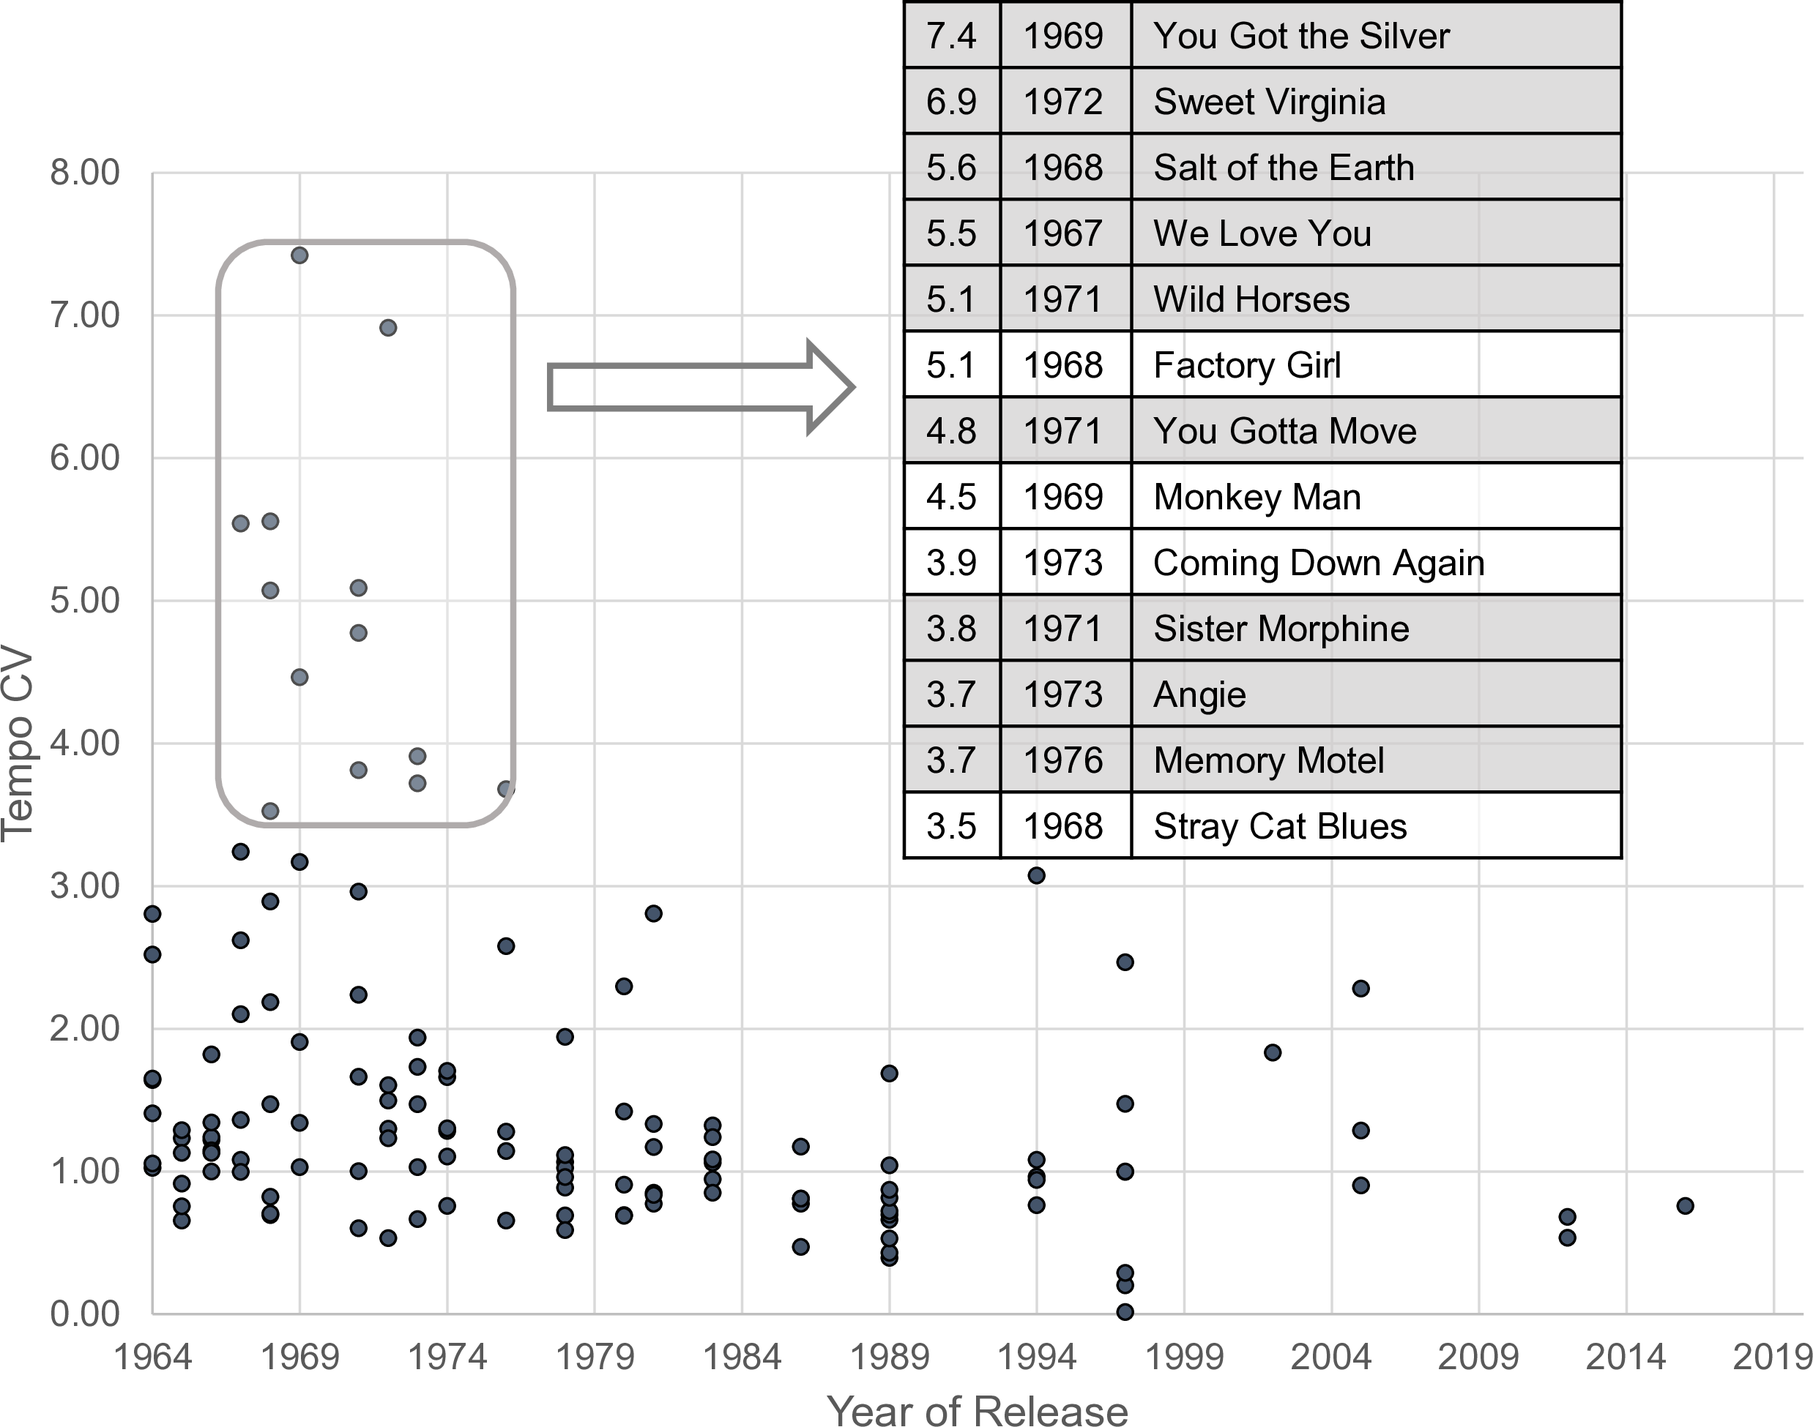
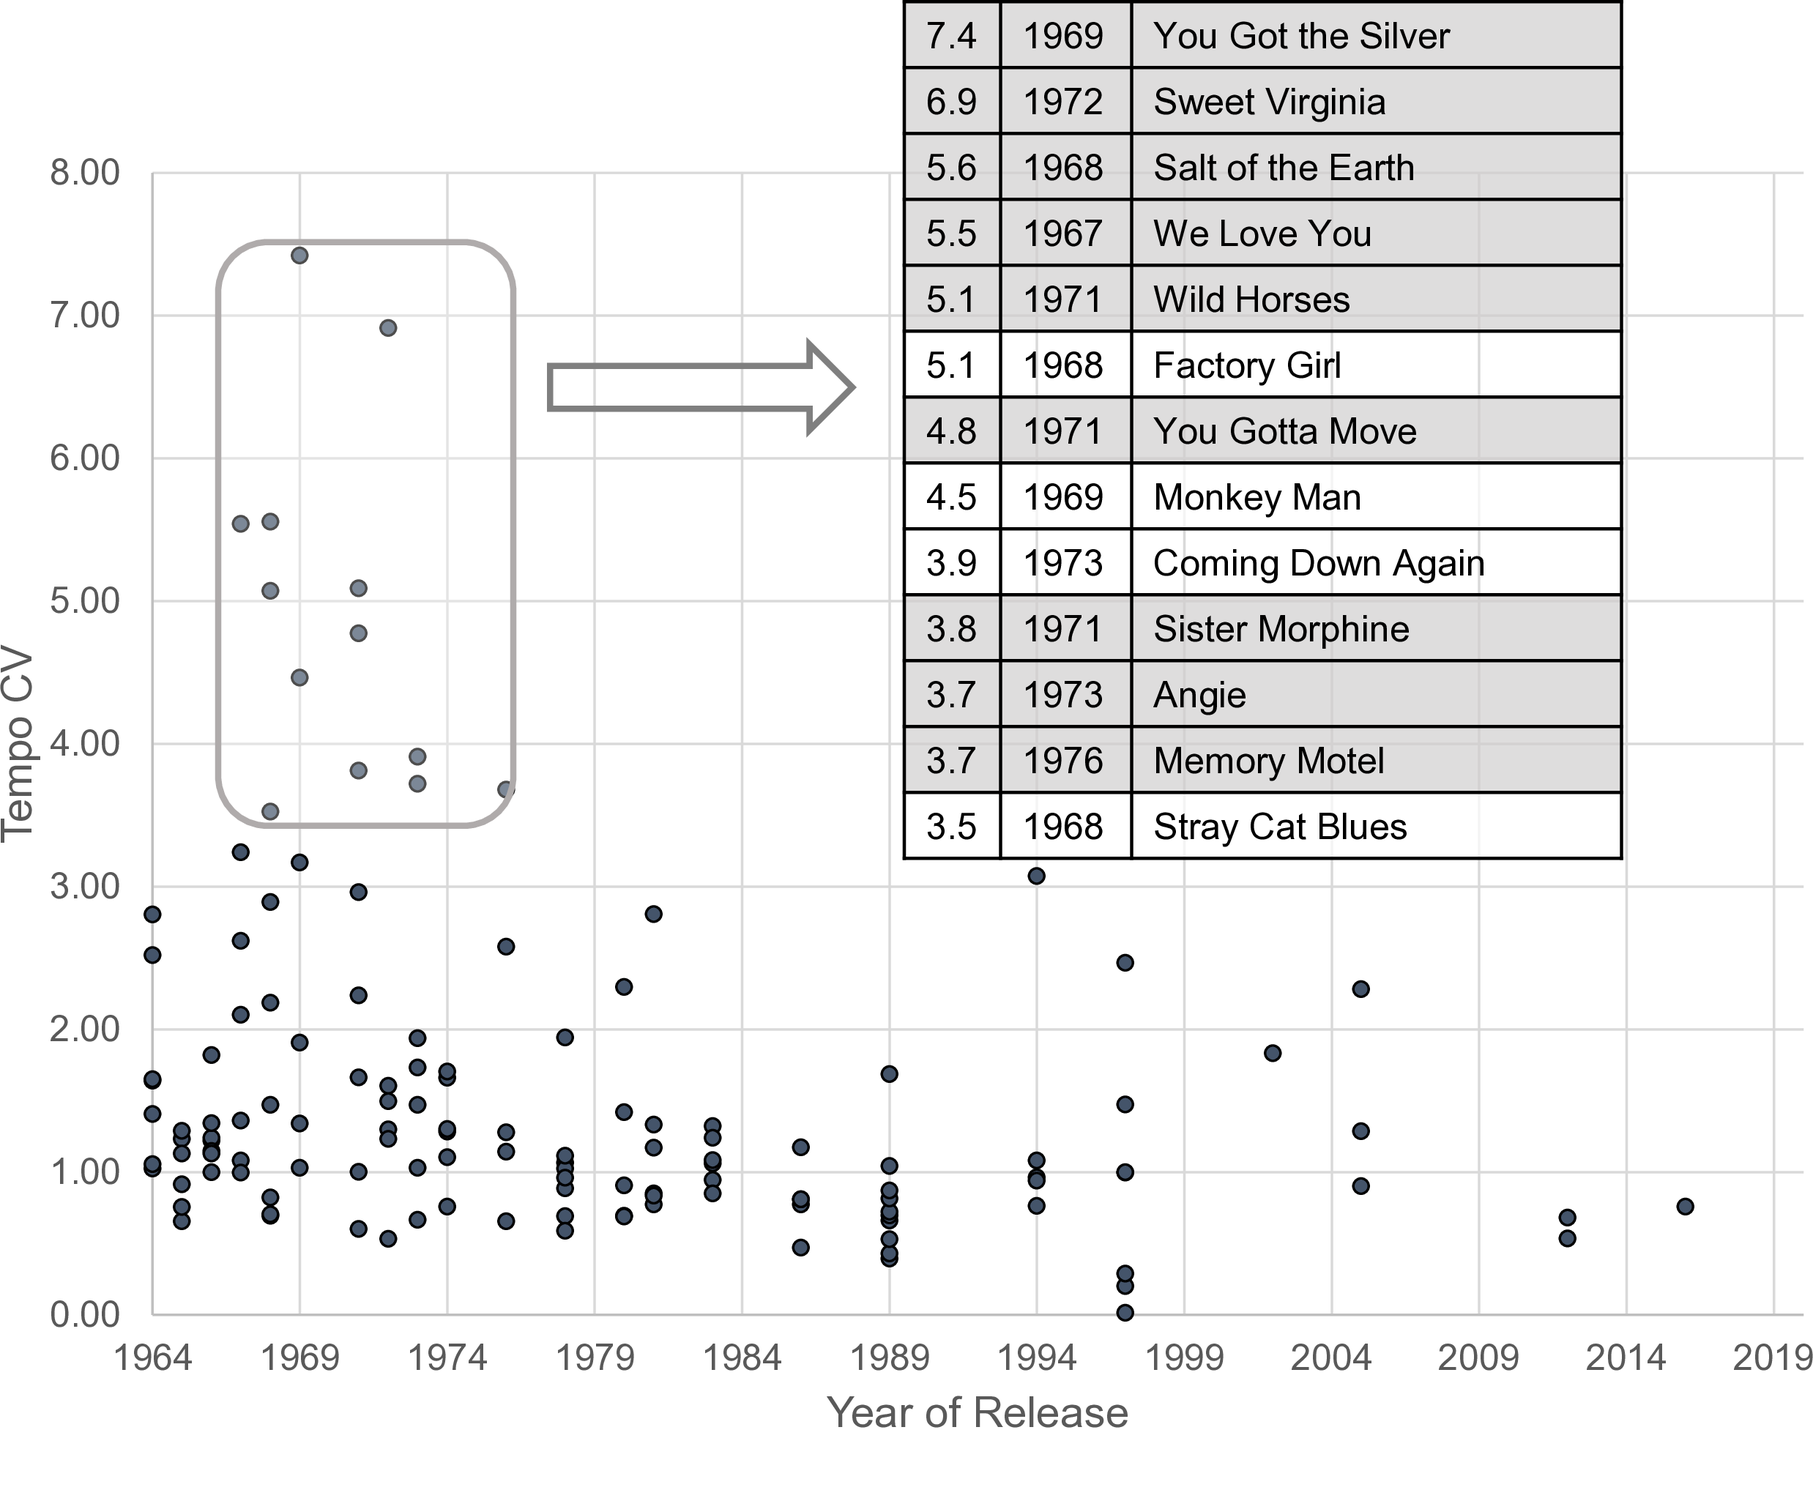
typos

diff --git a/_posts/vol49-50/2025-03-17-carter_von_appen.md b/_posts/vol49-50/2025-03-17-carter_von_appen.md
@@ -43,7 +43,7 @@ Fans often discuss the "feels" of popular music drummers, making claims
 about the particular features that characterize their sound. The
 drumming of Charlie Watts of the Rolling Stones has especially been the
 subject of intense debate. When Watts died in August 2021, a headline in
-*The* *Times* *of London* proclaimed that his drumming "would make drum
+*The Times* of London proclaimed that his drumming "would make drum
 machines weep" (Hepworth 2021), with the majority of commentators
 describing his playing as "behind the beat." For example, Bruce
 Springsteen's drummer Max Weinberg wrote: "Charlie became a
@@ -53,7 +53,7 @@ play behind the direct backbeat" (Beaumont-Thomas 2021). Others have
 made a different assessment, with podcast host and drummer Monte Mallin
 claiming in 2012 that it was Watts being "slightly ahead of the beat"
 that gave the band its characteristic rhythmic feel.{% assign author_key = page.short-name %}{% assign footnote_text = site.data[author_key].footnote_1 %}{% include footnote.html footnote_number='1' footnote_text=footnote_text %} Discussions of
-Watts's approach to *tempo variability* have also differed, with some
+Watts's approach to tempo variability have also differed, with some
 claiming he is "metronomic" while others asserting that the band's tempo
 ebbed and flowed. Bassist Darryl Jones, who has played with the band for
 thirty years, said of Watts: "He has a way of being very, very steady
@@ -150,18 +150,18 @@ In "Monkey Man" (1969), beat 2 delay varies between 10 and 80 ms, but the second
 {% include figure_grid.html columns=1 figure_key='figure_13' %}
 {% include figure_grid.html columns=1 figure_key='audio_13' %}
 
-Like "Monkey Man," the 1972 Stones album *Exile on Main Street* contains some of the clearest and most consistent examples of delayed backbeats. The album was produced by drummer Jimmy Miller, whose time working with the band (1968--73) appears particularly correlated with delayed backbeats and tempo variability (see sections IV and V, below). "Ventilator Blues," "Rocks Off," "Tumbling Dice," "Let It Loose," "Loving Cup," and "Torn and Frayed" each contain relatively consistent and substantial backbeat delays, though other tracks from the album, such as "Casino Boogie" and "Sweet Virginia," lack such a tendency. The gospel-inflected "Let It Loose" from this album provides an example of a strong tendency to delay the snare on beats 2 and 4 (**[Example 14](#ex-14)**). In this song, the average delay of the attack on beat 2 in comparison with the expectation created by the previous bar is 21 ms, and the average accumulated delay for beat 4 is 17 ms. Of the 42 beat 2 attacks (45 percent), 19 are delayed by at least 2.5 percent of mean IOI, and 76 percent of the beat 2 attacks are delayed by at least 5 ms. By comparison, only two of the 42 beat 2 attacks are 2.5 percent of the average IOI early. The substantial delays to beats 2 and 4 are mostly consistent, with the exception of a passage at 3:03--3:21 that has a less steady tempo and extensive drum fills.
+Like "Monkey Man," the 1972 Stones album *Exile on Main Street* contains some of the clearest and most consistent examples of delayed backbeats. The album was produced by drummer Jimmy Miller, whose time working with the band (1968--73) appears particularly correlated with delayed backbeats and tempo variability (see sections IV and V, below). "Ventilator Blues," "Rocks Off," "Tumbling Dice," "Let It Loose," "Loving Cup," and "Torn and Frayed" each contain relatively consistent and substantial backbeat delays, though other tracks from the album, such as "Casino Boogie" and "Sweet Virginia," lack such a tendency. The gospel-inflected "Let It Loose" from this album provides an example of a strong tendency to delay the snare on beats 2 and 4 (**[Example 14](#ex-14)**). In this song, the average delay of the attack on beat 2 in comparison with the expectation created by the previous bar is 21 ms, and the average accumulated delay for beat 4 is 17 ms. Of the 42 beat 2 attacks, 19 (45 percent) are delayed by at least 2.5 percent of mean IOI, and 32 (76 percent) are delayed by at least 5 ms. The substantial delays to beats 2 and 4 are mostly consistent, with the exception of a passage at 3:03--3:21 that has a less steady tempo and extensive drum fills.
 
 {% include figure_grid.html columns=1 figure_key='figure_14' %}
 {% include figure_grid.html columns=1 figure_key='audio_14' %}
 
-We found only three Stones studio recordings where at least 40 percent of the beat 2 attacks were *early* by at least 2.5 percent of mean IOI: "If You Can't Rock Me" (1974), "Hot Stuff" (1976), and "Brand New Car" (1994). "If You Can't Rock Me" features a simple, unsyncopated kick pattern---often using just single attacks on beats 1 and 3---and a relatively busy snare drum with frequent fast fills. "If You Can't Rock Me" is the earliest Stones track we found with a mean beat 2 delay of less than zero (indicating that beat 2 attacks were on average early) with all 27 analyzed tracks released prior to 1974 having a mean beat 2 delay greater than zero. In contrast, of the 19 analyzed tracks from 1980 onwards, eight of them (42 percent) have negative beat 2 mean deviations. "Hot Stuff," a disco track that is one of the band's steadiest recordings prior to the 1980s (tempo CV of .66; see section V, below), similarly features a very simple kick pattern with single attacks on beats 1 and 3, as does the later "Brand New Car." Iyer wrote that the four-on-the-floor kick drum approach, another pattern associated with disco that involves no syncopation or eighth notes in the kick, was incompatible with delayed backbeats because it eliminated or at least reduced the timbral difference between the downbeats and the backbeats (2002, 406), yet its incompatibility with backbeat delay and its complement, an early kick, may be more related to the simplicity of its kick pattern. The Stones song "Emotional Rescue" exemplifies the tendency towards early backbeats when a four-on-the-floor pattern is used, as the verse four-on-the-floor pattern shows a significant tendency towards an early beat 2 and the backbeat pattern in the bridges and outro lacks this tendency (see Appendix Example 1).
+We found only three Stones studio recordings where at least 40 percent of the beat 2 attacks were *early* by at least 2.5 percent of mean IOI: "If You Can't Rock Me" (1974), "Hot Stuff" (1976), and "Brand New Car" (1994). "If You Can't Rock Me" features a simple, unsyncopated kick pattern---often using just single attacks on beats 1 and 3---and a relatively busy snare drum with frequent fast fills. "If You Can't Rock Me" is the earliest Stones track we found with a mean beat 2 delay of less than zero (indicating that beat 2 attacks were on average early) with all 27 analyzed tracks released prior to 1974 having a mean beat 2 delay greater than zero. In contrast, of the 19 analyzed tracks from 1980 onwards, eight of them (42 percent) have negative beat 2 mean deviations. "Hot Stuff," a disco track that is one of the band's steadiest recordings prior to the 1980s (tempo CV of 0.66; see section V, below), similarly features a very simple kick pattern with single attacks on beats 1 and 3, as does the later "Brand New Car." Iyer wrote that the four-on-the-floor kick drum approach, another pattern associated with disco that involves no syncopation or eighth notes in the kick, was incompatible with delayed backbeats because it eliminated or at least reduced the timbral difference between the downbeats and the backbeats (2002, 406), yet its incompatibility with backbeat delay and its complement, an early kick, may be more related to the simplicity of its kick pattern. The Stones song "Emotional Rescue" exemplifies the tendency towards early backbeats when a four-on-the-floor pattern is used, as the verse four-on-the-floor pattern shows a significant tendency towards an early beat 2 and the backbeat pattern in the bridges and outro lacks this tendency (see Appendix Example 1).
 
 Looking at microtiming in Rolling Stones live recordings with Watts, there are also instances of relatively consistent backbeat delay, with 7 out of 19 recordings having at least 40 percent of their beat 2 attacks meeting the 2.5 percent JND threshold and 10 recordings meeting that standard for beat 4 (**[Example 15](#ex-15)**). The band's 1973 Brussels rendition of "Gimme Shelter" had the most consistently delayed second beats, while the four live recordings of "Tumbling Dice" we analyzed showed a pattern of backbeat delay similar to that in the studio recording. The consistency with which the Rolling Stones have performed this song with delayed backbeats in both studio and live settings suggests that the approach is a crucial component of it. Watts's use of delayed backbeats in live performances of several Stones songs continued even through the era in which he largely gave up playing with delayed backbeats in the studio, as live recordings of "Shine a Light," "Angie," "Gimme Shelter," and others from the 1990s and twenty-first century attest.
 
 {% include figure_grid.html columns=1 figure_key='figure_15' %}
 
-In order to better understand how Watts's microtiming tendencies compare with those of his contemporaries, we also analyzed 59 recordings with other drummers (Appendix Example 2). Prior to 1979, other drummers delayed by at least 2.5 percent of mean IOI an average of 20 percent of second beats, while from 1979 on this number fell to just 8 percent (**[Example 16](#ex-16)**). On average, other drummers prior to 1979 delayed beat 4 slightly less than beat 2, though not to a statistically significant extent (*p* = .10).{% assign author_key = page.short-name %}{% assign footnote_text = site.data[author_key].footnote_24 %}{% include footnote.html footnote_number='24' footnote_text=footnote_text %} We found a relatively small number of recordings of other drummers, all but one from prior to 1979, with a tendency towards substantial delay (**[Example 17](#ex-17)**). While just three recordings we analyzed had more than 50 percent of their second beats substantially delayed (including the famous eight bars of James Brown's "Funky Drummer"), several more prior to 1979 had an average beat 2 delay of at least 2.5 percent of mean IOI, including the "Easy" by the Commodores (1977), "Hey Joe" by the Jimi Hendrix Experience (1966), and "Take Me to the River" by the Talking Heads (1978). Al Jackson Jr., who Max Weinberg referred to as a pioneer of playing behind the beat (Beaumont-Thomas 2021), delays beat 2 consistently on "Green Onions" and to a lesser extent on Sam & Dave's "Hold On, I'm Comin'," but not on "It Ain't No Fun to Me," "In the Midnight Hour,"{% assign author_key = page.short-name %}{% assign footnote_text = site.data[author_key].footnote_25 %}{% include footnote.html footnote_number='25' footnote_text=footnote_text %} "Knock on Wood," "Soul Man," or "I Never Found a Girl." As with the Stones recordings that show a strong tendency towards backbeat delay, recordings by other artists that have the highest average beat 2 delays still have relatively high standard deviations, reflecting how the exact *amount* of delay is highly variable even when there is a strong tendency towards playing behind the beat.
+In order to better understand how Watts's microtiming tendencies compare with those of his contemporaries, we also analyzed 59 recordings with other drummers (Appendix Example 2). Prior to 1979, other drummers delayed by at least 2.5 percent of mean IOI an average of 20 percent of second beats, while from 1979 on this number fell to just 8 percent (**[Example 16](#ex-16)**). On average, other drummers prior to 1979 delayed beat 4 slightly less than beat 2, though not to a statistically significant extent (*p* = .10).{% assign author_key = page.short-name %}{% assign footnote_text = site.data[author_key].footnote_24 %}{% include footnote.html footnote_number='24' footnote_text=footnote_text %} We found a relatively small number of recordings of other drummers, all but one from prior to 1979, with a tendency towards substantial delay (**[Example 17](#ex-17)**). While just three recordings we analyzed had more than 50 percent of their second beats substantially delayed (including the famous eight bars of James Brown's "Funky Drummer"), several more prior to 1979 had an average beat 2 delay of at least 2.5 percent of mean IOI, including "Easy" by the Commodores (1977), "Hey Joe" by the Jimi Hendrix Experience (1966), and "Take Me to the River" by Talking Heads (1978). Al Jackson Jr., who Max Weinberg referred to as a pioneer of playing behind the beat (Beaumont-Thomas 2021), delays beat 2 consistently on "Green Onions" and to a lesser extent on Sam & Dave's "Hold On, I'm Comin'," but not on "It Ain't No Fun to Me," "In the Midnight Hour,"{% assign author_key = page.short-name %}{% assign footnote_text = site.data[author_key].footnote_25 %}{% include footnote.html footnote_number='25' footnote_text=footnote_text %} "Knock on Wood," "Soul Man," or "I Never Found a Girl." As with the Stones recordings that show a strong tendency towards backbeat delay, recordings by other artists that have the highest average beat 2 delays still have relatively high standard deviations, reflecting how the exact *amount* of delay is highly variable even when there is a strong tendency towards playing behind the beat.
 
 {% include figure_grid.html columns=1 figure_key='figure_16' %}
 
@@ -189,7 +189,7 @@ In the first model, the tempo is a relatively flat line (**[Example 21](#ex-21)*
 
 {% include figure_grid.html columns=1 figure_key='figure_21' %}
 
-The second shape can be found more often in their '60s and '70s recordings: here the band significantly increases the tempo within the first handful of bars, then is relatively steady after that point. This pattern is heard in "Sweet Virginia" (**[Example 22](#ex-22)**), where the guitars start at 93 BPM and quickly reach 106 BPM within just 12 bars. This kind of early acceleration occurs also in "Stray Cat Blues," "Dancing with Mr. D," and in 1970s live versions of "Honky Tonk Women," "Brown Sugar," "Jumping Jack Flash," and "Tumbling Dice." We observed early acceleration in other artists' studio recordings as well, including in The Jimi Hendrix Experience's "All Along the Watchtower" and Creedence Clearwater Revival's "Born on the Bayou."
+The second shape can be found more often in their '60s and '70s recordings: here the band significantly increases the tempo within the first handful of bars, then is relatively steady after that point. This pattern is heard in "Sweet Virginia" (**[Example 22](#ex-22)**), where the guitars start at 93 BPM and quickly reach 106 BPM within just 12 bars. This kind of early acceleration occurs also in "Stray Cat Blues," "Dancing with Mr. D," and in 1970s live versions of "Honky Tonk Women," "Brown Sugar," "Jumping Jack Flash," and "Tumbling Dice." We observed early acceleration in other artists' studio recordings as well, including in the Jimi Hendrix Experience's "All Along the Watchtower" and Creedence Clearwater Revival's "Born on the Bayou."
 
 {% include figure_grid.html columns=1 figure_key='figure_22' %}
 {% include figure_grid.html columns=1 figure_key='video_22' %}
@@ -243,7 +243,7 @@ The second period began with their August 1967 release of the single "We Love Yo
 
 {% include figure_grid.html columns=1 figure_key='figure_31' %}
 
-A third era for the Stones' approach to tempo variability began in 1974. Starting with their self-produced album *It's Only Rock 'n Roll*, the Stones returned to keeping the tempo steady throughout their songs, but now with increasingly metronomic precision. The Stones' median tempo CV returned to less than 1.3 in 1974 and remained under that upper limit for every analyzed year in the remainder of their career to date. Especially from 1980 onwards, the tempo CV in individual songs hardly ever rises above 1.0, with the only recordings over 1.0 being slower ballads. Of the 59 Rolling Stones studio recordings with Watts released subsequent to 1976 that we analyzed, only one---the maudlin 1994 ballad "Out of Tears"---had a CV over 3.0. The increased steadiness of Stones tracks released after 1976 correlates with their greatly reduced use of backbeat delay in the same period.
+A third era for the Stones' approach to tempo variability began in 1974. Starting with their self-produced album *It's Only Rock 'n Roll*, the Stones returned to keeping the tempo steady throughout their songs, but now with increasingly metronomic precision. The Stones' median tempo CV returned to less than 1.3 in 1974 and remained under that upper limit for every analyzed year in the remainder of their career to date. Especially from 1980 onwards, the tempo CV in individual songs hardly ever rises above 1.0, with the only recordings over that threshold 1.0 being slower ballads. Of the 59 Rolling Stones studio recordings with Watts released subsequent to 1976 that we analyzed, only one---the maudlin 1994 ballad "Out of Tears"---had a CV over 3.0. The increased steadiness of Stones tracks released after 1976 correlates with their greatly reduced use of backbeat delay in the same period.
 
 In addition to identifying these three periods of the Stones' career, we noticed additional tendencies that apply to multiple eras. For instance, there appears to be a relationship between tempo variability and genre, just as there is with microtiming. The band tended to keep a relatively steady tempo in their Caribbean-, funk-, and disco-influenced songs. Examples include "Hot Stuff" (CV of 0.66), "Hey Negrita" (1.28), "Sympathy for the Devil" (0.71), and "Miss You" (0.59) (**[Example 32](#ex-32)**). The Stones' ballads, on the other hand---such as "Memory Motel" (3.68), "Out of Tears" (3.07), and "Streets of Love" (2.28)---tended to significantly speed up and have relatively high CV values. This tendency in slower songs holds true throughout the Stones' career as well as in the songs of other artists prior to 1980. Songs and passages without drums or percussion (in gray in Example 31) also tended to have greater tempo variability, a tendency especially apparent between 1968 and 1973.
 
